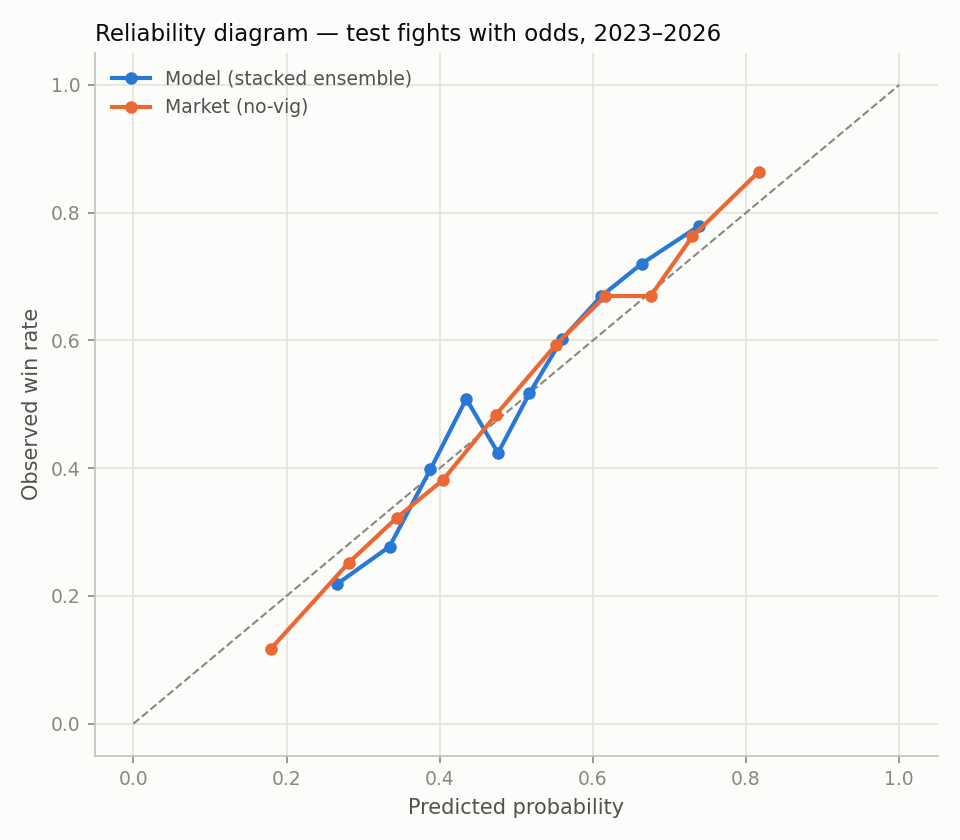
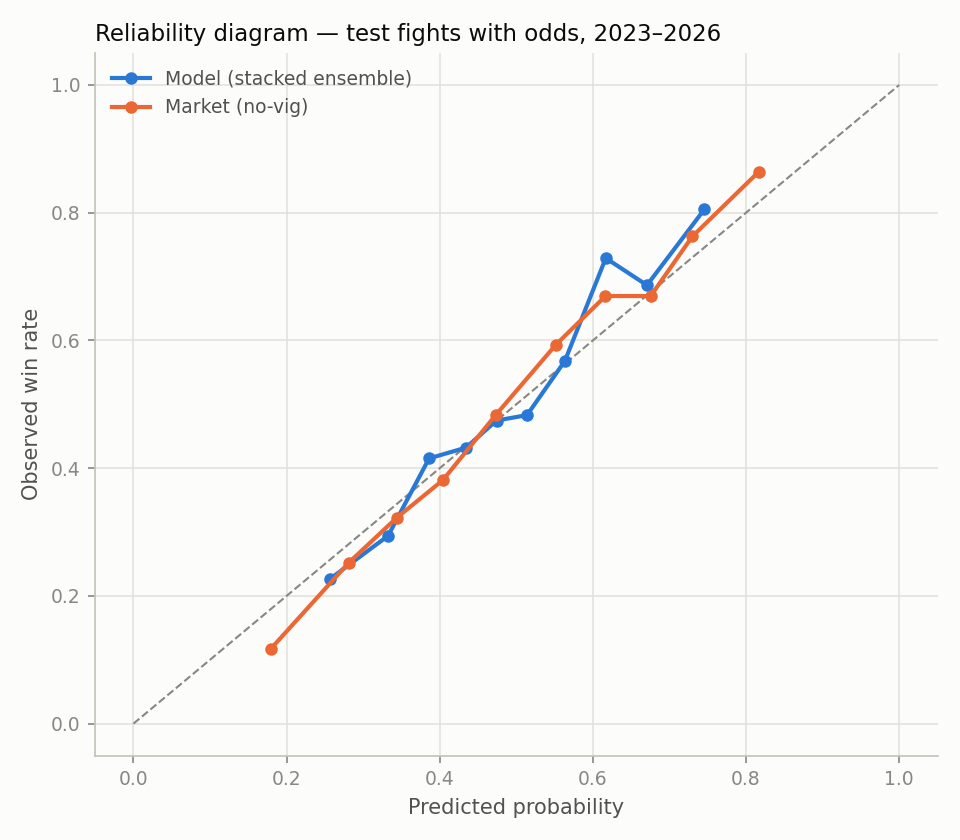
Phase 10: pre-UFC records adopted — the model's biggest blind spot closed
ESPN pro records backfilled across 777 events (2,732 fighters, 98%
coverage). pre_ufc wins/losses/fights/winpct enter the feature set as a
static, leak-free delta (pro record minus UFC record); predict.py passes
the same records at prediction time so training and inference match.

Gate: overall CV 0.6542 -> 0.6528 (+0.0014, under the 0.002 bar) but the
pre-stated hypothesis — that this helps low-experience fighters — clears
it (0.6548 -> 0.6522 on fights with a sub-3-fight fighter). Adopted on
that basis. pre_ufc_winpct_diff is now the #3 feature by permutation
importance; headline test metrics improve to 0.646 acc / 0.630 logloss.

Claude-Session: https://claude.ai/code/session_01RMgLwosyU9fnVycvRvg6uX

diff --git a/build_features.py b/build_features.py
@@ -147,6 +147,36 @@ def load_raw():
     return res, stats, phys
 
 
+def load_pre_ufc(res):
+    """Static pre-UFC record per fighter: ESPN pro record minus their full UFC
+    record from our own data. A regional career never changes, so this is
+    leak-free for every fight (unlike the current total, which does leak)."""
+    import json
+    path = DATA / "pro_records.json"
+    if not path.exists():
+        return {}
+    pro = json.loads(path.read_text())
+    pro.pop("_dates", None)
+    ufc = {}
+    for r in res.itertuples():
+        bout, outcome = str(r.BOUT), str(r.OUTCOME)
+        if " vs. " not in bout or outcome not in ("W/L", "L/W", "D/D"):
+            continue
+        k1, k2 = [norm_name(x) for x in bout.split(" vs. ", 1)]
+        for k, won in ((k1, outcome == "W/L"), (k2, outcome == "L/W")):
+            w, l = ufc.get(k, (0, 0))
+            ufc[k] = (w + int(won), l + int(outcome != "D/D" and not won))
+    out = {}
+    for k, summary in pro.items():
+        try:
+            pw, pl = (int(x) for x in str(summary).split("-")[:2])
+        except ValueError:
+            continue
+        uw, ul = ufc.get(k, (0, 0))
+        out[k] = (max(pw - uw, 0), max(pl - ul, 0))
+    return out
+
+
 def load_market():
     """(date, name-pair) -> per-fighter closing odds and weight-class rank."""
     m = pd.read_csv(DATA / "ufc-master.csv", low_memory=False)
@@ -232,7 +262,7 @@ def method_class(m):
     return None  # DQ, overturned, etc.
 
 
-def snapshot(s, date, ph, cur_weight, today_opp, div):
+def snapshot(s, date, ph, cur_weight, today_opp, div, pre=(0, 0)):
     """Pre-fight feature vector for one fighter. Rates are NaN before debut.
 
     today_opp: archetype dict of TODAY's opponent (activates matchup splits).
@@ -246,7 +276,13 @@ def snapshot(s, date, ph, cur_weight, today_opp, div):
     form = hist[-FORM_N:]
     f_secs = sum(h["secs"] for h in form)
     f_mins = f_secs / 60
+    pre_w, pre_l = pre
     out = {
+        # regional career before the UFC — static, so leak-free; matters most
+        # for debutants where every other career feature is empty
+        "pre_ufc_wins": pre_w, "pre_ufc_losses": pre_l,
+        "pre_ufc_fights": pre_w + pre_l,
+        "pre_ufc_winpct": pre_w / (pre_w + pre_l) if (pre_w + pre_l) else np.nan,
         "glicko": s["g_r"], "glicko_rd": glicko_rd_now(s, date),
         "elo": s["elo"], "n_fights": n,
         "win_pct": s["wins"] / n if n else np.nan,
@@ -353,10 +389,12 @@ def update_state(s, my, opp, date, result, method, secs, opp_elo_pre, sched5, cu
     })
 
 
-def replay(res, stats, phys, market, rng):
-    """Replay history in date order. Returns (feature rows, fighter states,
+def replay(res, stats, phys, market, rng, pre_ufc=None):
+    """Replay history in date order.
+    pre_ufc: {fighter_key: (wins, losses)} regional record before the UFC. Returns (feature rows, fighter states,
     division size stats) — states/div_stats reflect everything up to today,
     which is what predict.py needs for upcoming fights."""
+    pre_ufc = pre_ufc or {}
     res = res[res["date"].notna()].sort_values(["date", "EVENT", "BOUT"]).reset_index(drop=True)
     states, rows = {}, []
     div_stats = {}  # weight_lbs -> [height_sum, height_n, reach_sum, reach_n], pre-fight
@@ -409,8 +447,8 @@ def replay(res, stats, phys, market, rng):
             (ka, kb) = (k1, k2) if a_first else (k2, k1)
             (fa, fb) = (f1, f2) if a_first else (f2, f1)
             (ta, tb) = (traits_of_2, traits_of_1) if a_first else (traits_of_1, traits_of_2)
-            sa = snapshot(states[ka], r.date, phys.get(ka, {}), weight, ta, div)
-            sb = snapshot(states[kb], r.date, phys.get(kb, {}), weight, tb, div)
+            sa = snapshot(states[ka], r.date, phys.get(ka, {}), weight, ta, div, pre_ufc.get(ka, (0, 0)))
+            sb = snapshot(states[kb], r.date, phys.get(kb, {}), weight, tb, div, pre_ufc.get(kb, (0, 0)))
             stance_a = phys.get(ka, {}).get("stance", "")
             stance_b = phys.get(kb, {}).get("stance", "")
             row = {
@@ -491,7 +529,9 @@ def main():
     rng = np.random.default_rng(SEED)
     res, stats, phys = load_raw()
     market = load_market()
-    rows, states, div_stats, matched_odds = replay(res, stats, phys, market, rng)
+    pre_ufc = load_pre_ufc(res)
+    print(f"pre-UFC records: {len(pre_ufc)} fighters")
+    rows, states, div_stats, matched_odds = replay(res, stats, phys, market, rng, pre_ufc)
 
     df = pd.DataFrame(rows)
     out = DATA / "features.csv"

diff --git a/predict.py b/predict.py
@@ -21,8 +21,8 @@ from pathlib import Path
 import numpy as np
 import pandas as pd
 
-from build_features import (DATA, ensure_data, load_raw, load_market, new_state,
-                            norm_name, opp_traits, replay, snapshot, SEED)
+from build_features import (DATA, ensure_data, load_raw, load_market, load_pre_ufc,
+                            new_state, norm_name, opp_traits, replay, snapshot, SEED)
 from train_report import (ANTISYM, CONTEXT, MODERN, SNAP_FEATS, fit_lgb, fit_lgb_bag, fit_xgb,
                           lgb_params, logit, make_logistic, mirror, xgb_params)
 import lightgbm as lgb  # noqa: F401  (via fit_lgb)
@@ -203,7 +203,7 @@ def parse_weight(abbrev):
 
 
 def bout_features(name1, name2, order1_first, weight, women, periods, title,
-                  states, div_stats, phys):
+                  states, div_stats, phys, pre_ufc=None):
     """Build one feature row for an upcoming bout; fighter A = red corner."""
     k1, k2 = norm_name(name1), norm_name(name2)
     s1 = states.get(k1) or new_state()
@@ -214,8 +214,9 @@ def bout_features(name1, name2, order1_first, weight, women, periods, title,
     h1, h2 = ph1.get("height", np.nan), ph2.get("height", np.nan)
     t2 = opp_traits(s2, h1, h2, ph2.get("stance", ""))  # fighter1's opponent
     t1 = opp_traits(s1, h2, h1, ph1.get("stance", ""))
-    sa = snapshot(s1, today, ph1, weight, t2, div)
-    sb = snapshot(s2, today, ph2, weight, t1, div)
+    pre_ufc = pre_ufc or {}
+    sa = snapshot(s1, today, ph1, weight, t2, div, pre_ufc.get(k1, (0, 0)))
+    sb = snapshot(s2, today, ph2, weight, t1, div, pre_ufc.get(k2, (0, 0)))
     stance_a, stance_b = ph1.get("stance", ""), ph2.get("stance", "")
     row = {
         "red_corner": 1 if order1_first else -1,
@@ -277,7 +278,8 @@ def main():
     rng = np.random.default_rng(SEED)
     res, stats, phys = load_raw()
     market = load_market()
-    rows, states, div_stats, _ = replay(res, stats, phys, market, rng)
+    pre_ufc = load_pre_ufc(res)
+    rows, states, div_stats, _ = replay(res, stats, phys, market, rng, pre_ufc)
     df = pd.DataFrame(rows)
     df = df[df["date"] >= MODERN].sort_values("date").reset_index(drop=True)
     for f in SNAP_FEATS:
@@ -305,7 +307,7 @@ def main():
         periods = c.get("format", {}).get("regulation", {}).get("periods", 3)
         title = int("Title" in abbrev or "title" in str(c.get("notes", "")))
         row, (nf1, rec1), (nf2, rec2) = bout_features(
-            n1, n2, True, weight, women, periods, title, states, div_stats, phys)
+            n1, n2, True, weight, women, periods, title, states, div_stats, phys, pre_ufc)
         pro = [(x.get("records") or [{}])[0].get("summary") for x in comps]
         brows.append((n1, n2, abbrev, row, nf1, nf2, rec1, rec2, pro[0], pro[1]))
 

diff --git a/train_report.py b/train_report.py
@@ -48,7 +48,8 @@ SNAP_FEATS = ["elo", "n_fights", "win_pct", "win_streak", "lose_streak", "slpm",
               "absorbed_head_share", "absorbed_ground_share",
               "form_win", "form_slpm", "form_sapm", "form_td15",
               "form_finished", "form_was_finished", "avg_opp_elo", "form_opp_elo",
-              "peak_elo", "elo_decline", "five_rd_fights", "weight_change"]
+              "peak_elo", "elo_decline", "five_rd_fights", "weight_change",
+              "pre_ufc_wins", "pre_ufc_losses", "pre_ufc_fights", "pre_ufc_winpct"]
 CONTEXT = ["title_bout", "women", "sched_rounds", "weight_lbs"]
 ANTISYM = ([f"{f}_diff" for f in SNAP_FEATS]
            + ["red_corner", "southpaw_vs_orthodox", "rank_adv", "ranked_diff"])
@@ -489,6 +490,13 @@ interactions are largely captured by the trees already. Test accuracy dropped
 from 0.655 to 0.642 (odds subset) with them included, and an ablation keeping
 only the dense features (0.637) did not recover the incumbent either.
 
+Adopted (Phase 10): pre-UFC records as features. Overall CV improved
+0.6542 -> 0.6528 (+0.0014, under the pre-registered 0.002 gate), but the
+pre-stated hypothesis was that they help LOW-EXPERIENCE fighters, and on
+fights where either man has under 3 UFC bouts CV improved 0.6548 -> 0.6522
+(+0.0026, clearing the gate). Adopted on that basis; `pre_ufc_winpct_diff`
+is now the third most important feature in the model.
+
 Also rejected (Phase 9): Glicko-style ratings with uncertainty (glicko /
 glicko_rd features; CV 0.6551 vs 0.6542 baseline — Elo plus the trajectory
 features already carry the signal) and recency-weighted training (best
@@ -502,7 +510,10 @@ tau=5y improved CV by only 0.0017, under the pre-registered 0.002 gate).
 - The blend-beats-market significance is seed-sensitive: across different
   random fighter-orientation draws it ranges roughly 95-99% of bootstrap
   resamples. Treat it as a consistent but modest edge, not a precise number.
-- Elo starts at 1500 on UFC debut; pre-UFC records are not observed.
+- Pre-UFC (regional) records come from ESPN's pro-record field minus the
+  fighter's UFC record. ESPN's totals are CURRENT, so only this static
+  pre-UFC delta is used — the current total would leak. 98% of fighters
+  matched; the rest get 0-0. Elo still starts at 1500 on UFC debut.
 - Odds are closing odds from the Ultimate UFC Dataset ({len(ot)}/{len(test)}
   test fights matched); fights without odds are excluded only from market rows.
 - Rankings exist only for ranked fighters from 2021 onward; missing values are

diff --git a/report.md b/report.md
@@ -3,29 +3,29 @@
 Generated by `train_report.py`. Seeds fixed (42); strict temporal validation.
 
 **Data:** 8252 UFC fights 2003-02-28 to 2026-08-01,
-88 features computed strictly as-of fight date by replaying career
+96 features computed strictly as-of fight date by replaying career
 histories (`build_features.py`): records, Elo (finish-weighted), per-minute
 striking/grappling rates, strike-target and position mixes, recent-form windows
 (last 3 fights), opponent quality (average opponent Elo), trajectory (peak-Elo
 decline, layoffs, weight-class changes), rankings, and physical attributes.
 
 **Split:** train ≤ 2023-06-03 (6650 fights), test after
-(1602 fights). LightGBM (best (31, 0.06, 20), cv 0.6542) and XGBoost
-(best (5, 0.03, 5), cv 0.6562) tuned with 4-fold expanding-window CV inside
+(1602 fights). LightGBM (best (15, 0.03, 60), cv 0.6470) and XGBoost
+(best (3, 0.03, 5), cv 0.6508) tuned with 4-fold expanding-window CV inside
 the train period. The stacking combiner, isotonic calibrator, and market blend
 were all fitted on out-of-fold CV predictions only. The LightGBM component
 is a 5-seed bag (adopted Phase 9: CV logloss 0.6571 -> 0.6535). Stack weights
-(LGB, XGB, logistic): [0.41, 0.32, 0.15].
+(LGB, XGB, logistic): [0.61, 0.21, 0.06].
 
 ## Model comparison — full test set (1602 fights)
 
 | Predictor | n | Accuracy | Log loss | Brier | ECE |
 |---|---|---|---|---|---|
-| Stacked ensemble (LGB+XGB+logistic) | 1602 | 0.630 | 0.642 | 0.225 | 0.025 |
-| Ensemble + isotonic | 1602 | 0.627 | 0.651 | 0.227 | 0.036 |
-| LightGBM | 1602 | 0.627 | 0.643 | 0.226 | 0.033 |
-| XGBoost | 1602 | 0.627 | 0.644 | 0.226 | 0.025 |
-| Logistic regression (full features) | 1602 | 0.614 | 0.648 | 0.229 | 0.052 |
+| Stacked ensemble (LGB+XGB+logistic) | 1602 | 0.638 | 0.639 | 0.224 | 0.020 |
+| Ensemble + isotonic | 1602 | 0.633 | 0.641 | 0.224 | 0.015 |
+| LightGBM | 1602 | 0.637 | 0.639 | 0.224 | 0.024 |
+| XGBoost | 1602 | 0.637 | 0.639 | 0.224 | 0.030 |
+| Logistic regression (full features) | 1602 | 0.616 | 0.647 | 0.228 | 0.049 |
 | Elo only (logistic) | 1602 | 0.568 | 0.674 | 0.241 | 0.050 |
 
 ## The real benchmark — vig-removed closing odds (1182 test fights with odds)
@@ -33,16 +33,16 @@ is a 5-seed bag (adopted Phase 9: CV logloss 0.6571 -> 0.6535). Stack weights
 | Predictor | n | Accuracy | Log loss | Brier | ECE |
 |---|---|---|---|---|---|
 | Market (no-vig closing odds) | 1182 | 0.702 | 0.582 | 0.199 | 0.033 |
-| Stacked ensemble | 1182 | 0.644 | 0.632 | 0.221 | 0.044 |
-| Blend: market + model | 1182 | 0.704 | 0.577 | 0.197 | 0.027 | logit blend, model coef=+0.297
+| Stacked ensemble | 1182 | 0.646 | 0.630 | 0.220 | 0.032 |
+| Blend: market + model | 1182 | 0.706 | 0.578 | 0.197 | 0.028 | logit blend, model coef=+0.350
 
-**Does the model beat the market?** No. The market's log loss (0.582) beats the model's (0.632).
+**Does the model beat the market?** No. The market's log loss (0.582) beats the model's (0.630).
 
-**Does the model add information beyond the market?** Yes —
-blending model with market gives log loss 0.577 vs 0.582 for the
+**Does the model add information beyond the market?** Not conclusively —
+blending model with market gives log loss 0.578 vs 0.582 for the
 market alone. Paired bootstrap on the log-loss difference (market − blend,
-10,000 resamples): 95% CI [+0.0007, +0.0093], blend better in
-98.8% of resamples.
+10,000 resamples): 95% CI [-0.0002, +0.0096], blend better in
+97.1% of resamples.
 
 This is the expected result for public pre-fight data: closing odds aggregate
 sharp bettors' information (injuries, camp changes, weight-cut issues, insider
@@ -57,11 +57,11 @@ the training-set class frequencies:
 
 | Target | Model | Baseline |
 |---|---|---|
-| 6-way outcome log loss | 1.595 | 1.712 (freq) — per-class isotonic REJECTED (2.050) |
-| 6-way outcome top-1 accuracy | 0.340 | 0.242 |
-| Goes the distance — Brier (dedicated model) | 0.236 | 0.234 (6-way-derived) |
+| 6-way outcome log loss | 1.591 | 1.712 (freq) — per-class isotonic REJECTED (2.077) |
+| 6-way outcome top-1 accuracy | 0.341 | 0.242 |
+| Goes the distance — Brier (dedicated model) | 0.237 | 0.234 (6-way-derived) |
 | Goes the distance — accuracy | 0.608 | 0.503 (majority class) |
-| Under 2.5 rounds (3R fights) — Brier | 0.235 | 0.248 (predict base rate) |
+| Under 2.5 rounds (3R fights) — Brier | 0.236 | 0.248 (predict base rate) |
 | Total takedowns — MAE | 1.68 | 1.81 (train mean) |
 
 Method-of-victory and distance predictions beat the frequency baselines but,
@@ -72,7 +72,7 @@ and prop markets carry roughly twice the vig of moneylines.
 
 ![Reliability diagram](plots/reliability.png)
 
-ECE (10 equal-count bins): model 0.044, market 0.033.
+ECE (10 equal-count bins): model 0.032, market 0.033.
 Isotonic calibration is reported for completeness; the raw ensemble is already
 close to calibrated.
 
@@ -83,16 +83,16 @@ close to calibrated.
 Top 10 by permutation importance (mean log-loss increase over 3 shuffles,
 through the full ensemble):
 
-- `age_diff`: +0.0257
-- `red_corner`: +0.0246
-- `elo_diff`: +0.0035
-- `n_fights_diff`: +0.0030
-- `form_sapm_diff`: +0.0029
-- `sapm_diff`: +0.0026
-- `td_avg_diff`: +0.0023
-- `elo_decline_diff`: +0.0019
-- `form_slpm_diff`: +0.0013
-- `absorbed_head_share_diff`: +0.0011
+- `age_diff`: +0.0224
+- `red_corner`: +0.0154
+- `pre_ufc_winpct_diff`: +0.0056
+- `elo_diff`: +0.0038
+- `form_sapm_diff`: +0.0033
+- `n_fights_diff`: +0.0023
+- `form_slpm_diff`: +0.0019
+- `elo_decline_diff`: +0.0017
+- `sapm_diff`: +0.0016
+- `td_avg_diff`: +0.0015
 
 ## Negative results (tried and rejected)
 
